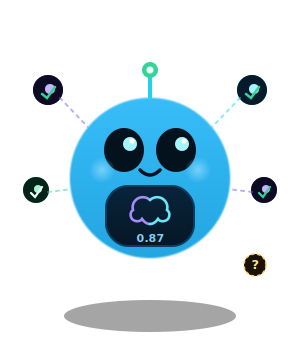
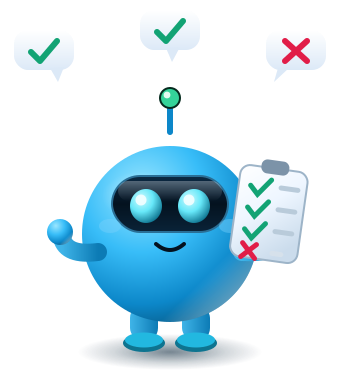
Redesigned Pip mascot + updated cross-links
Pip rebuilt with volumetric shading, a real tally board and model speech bubbles.
Removed the meaningless 0.87 readout.

Created by Yacine Mahboub, Founder of WEVIA.

diff --git a/README.md b/README.md
@@ -72,7 +72,7 @@ Token overlap is the default because it is language-agnostic and has no dependen
 
 ## Related
 
-**[AI AgentGuard](https://github.com/Yacineutt/AI-AgentGuard)** — the operational doctrines behind this design. Quorum is doctrine 3 (*honesty over fluency*) made executable.
+**[AI ThreeAM](https://github.com/Yacineutt/AI-ThreeAM)** — the operational doctrines behind this design. Quorum is doctrine 3 (*honesty over fluency*) made executable.
 
 ## License
 